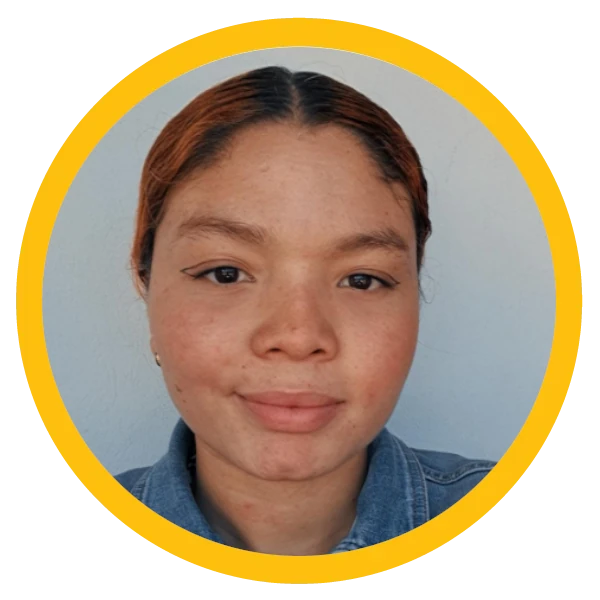
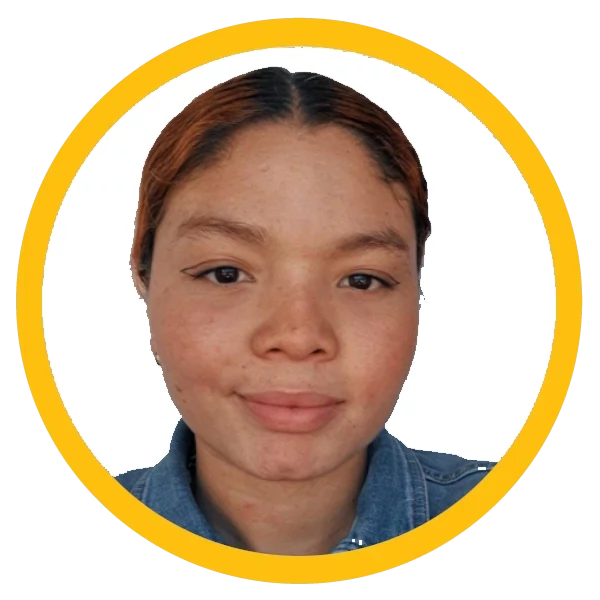
feat: mini ajustes

Changed region(s): [[0.06, 0.06, 0.93, 0.81]]

diff --git a/src/views/HomeView.vue b/src/views/HomeView.vue
@@ -27,7 +27,7 @@ const equipo = [
   { nombre: 'Cristian Solano', cargo: 'Área Contable y Administrativa', foto: fotoCristian },
   { nombre: 'Steven Rátiva', cargo: 'Coordinador de Comunicaciones', foto: fotoSteven },
   { nombre: 'Wendy Imbreth', cargo: 'Docente de Artes', foto: fotoWendy },
-  { nombre: 'Juan Marquez', cargo: ' ', foto: fotoJuanMarquez }
+  { nombre: 'Juan Marquez', cargo: 'Docente del Proyecto Deportivo', foto: fotoJuanMarquez }
 ]
 
 const pilares = [
@@ -52,18 +52,18 @@ const pilares = [
 ]
 
 const impacto = [
-  { valor: 8047, texto: 'personas capacitadas', periodo: '2007 – 2025' },
-  { valor: 1320, texto: 'niños, niñas y adolescentes atendidos', periodo: '2014 – mayo 2025' },
-  { valor: 770, texto: 'familias atendidas', periodo: '2014 – mayo 2025' },
-  { valor: 60, texto: 'adultos mayores atendidos', periodo: '2022 – mayo 2025' },
+  { valor: 8493, texto: 'personas capacitadas', periodo: '2007 - 2026' },
+  { valor: 1410, texto: 'niños, niñas y adolescentes atendidos', periodo: '2014 - noviembre 2026' },
+  { valor: 854, texto: 'familias atendidas', periodo: '2014 - noviembre 2026' },
+  { valor: 85, texto: 'adultos mayores atendidos', periodo: '2022 - noviembre 2026' },
   {
-    valor: 2365,
+    valor: 2600,
     texto: 'talleres de arte para niños, niñas y adolescentes',
-    periodo: '2014 – mayo 2025',
+    periodo: '2014 - noviembre 2026',
   },
-  { valor: 711, texto: 'entrenamientos de running y atletismo', periodo: '2019 – mayo 2025' },
-  { valor: 720, texto: 'voluntarios en actividades de la fundación', periodo: '2014 – mayo 2025' },
-  { valor: 121, texto: 'voluntariados corporativos', periodo: '2014 – mayo 2025' },
+  { valor: 852, texto: 'entrenamientos de running y atletismo', periodo: '2019 - noviembre 2026' },
+  { valor: 745, texto: 'voluntarios en actividades de la fundación', periodo: '2014 - noviembre 2026' },
+  { valor: 130, texto: 'voluntariados corporativos', periodo: '2014 - noviembre 2026' },
 ]
 
 const valores = [
@@ -237,7 +237,7 @@ const aliados = Object.keys(aliadosModules)
             <YoutubeLite id="CEqVym8y8oE" title="Fundación Mariana Novoa" class="sm:col-span-2" />
             <YoutubeLite
               id="Q6D11e4UKRQ"
-              title="Fundación Mariana Novoa – Historia"
+              title="Fundación Mariana Novoa - Historia"
               class="sm:col-span-2"
             />
           </div>
